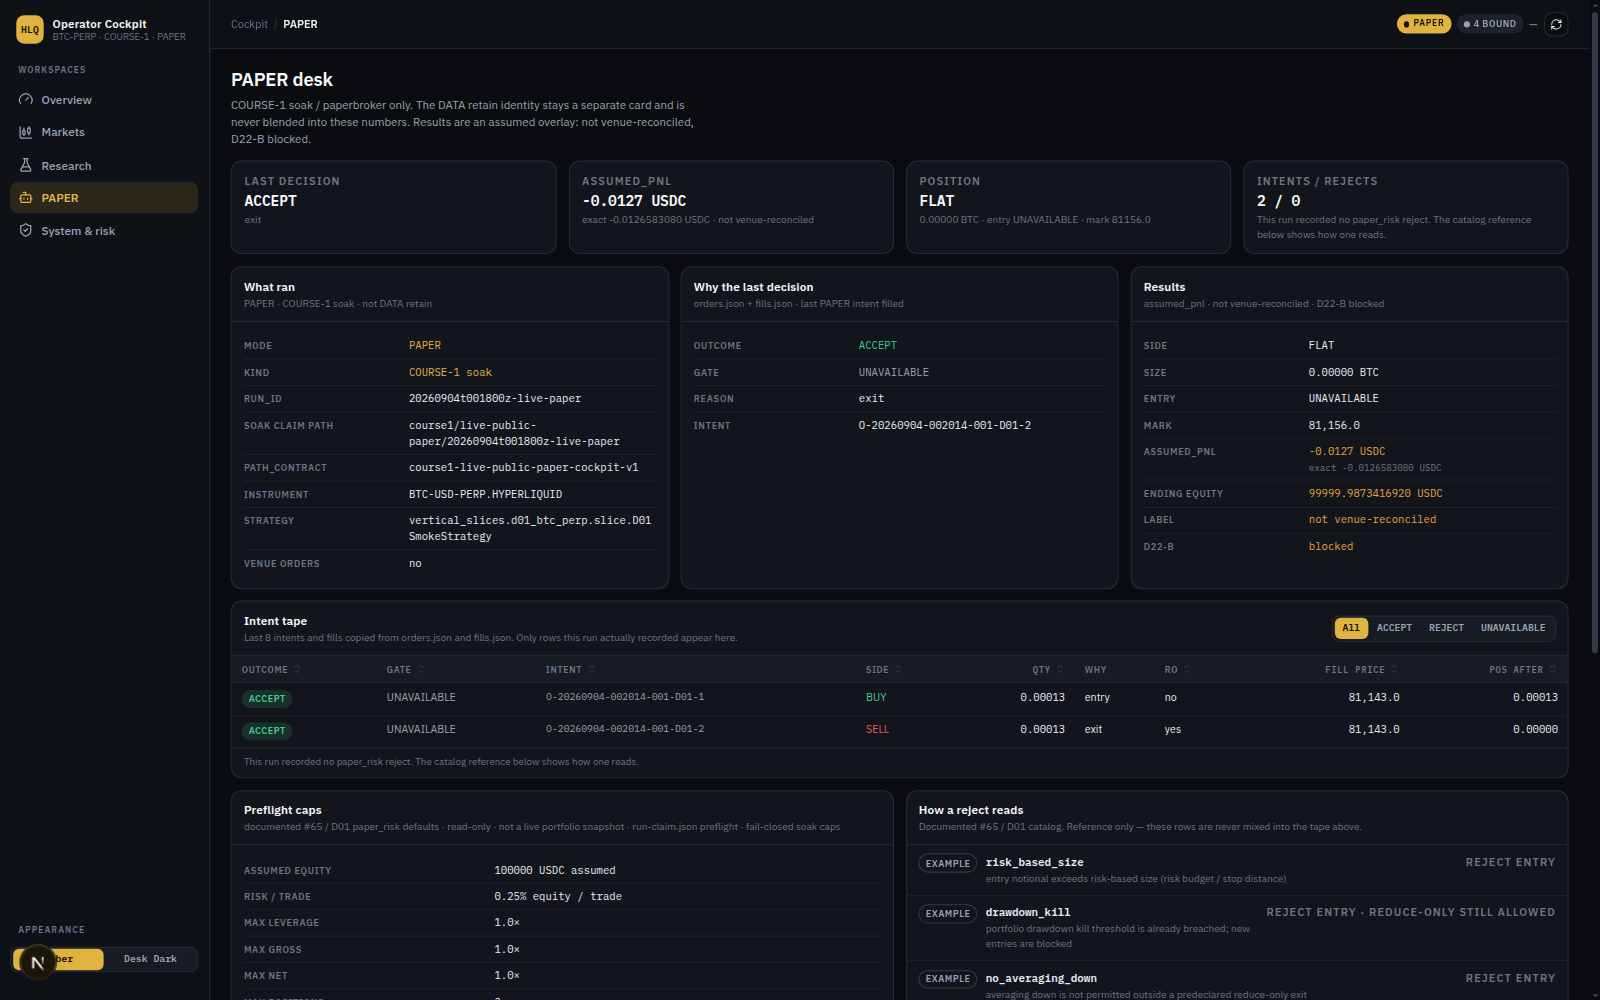
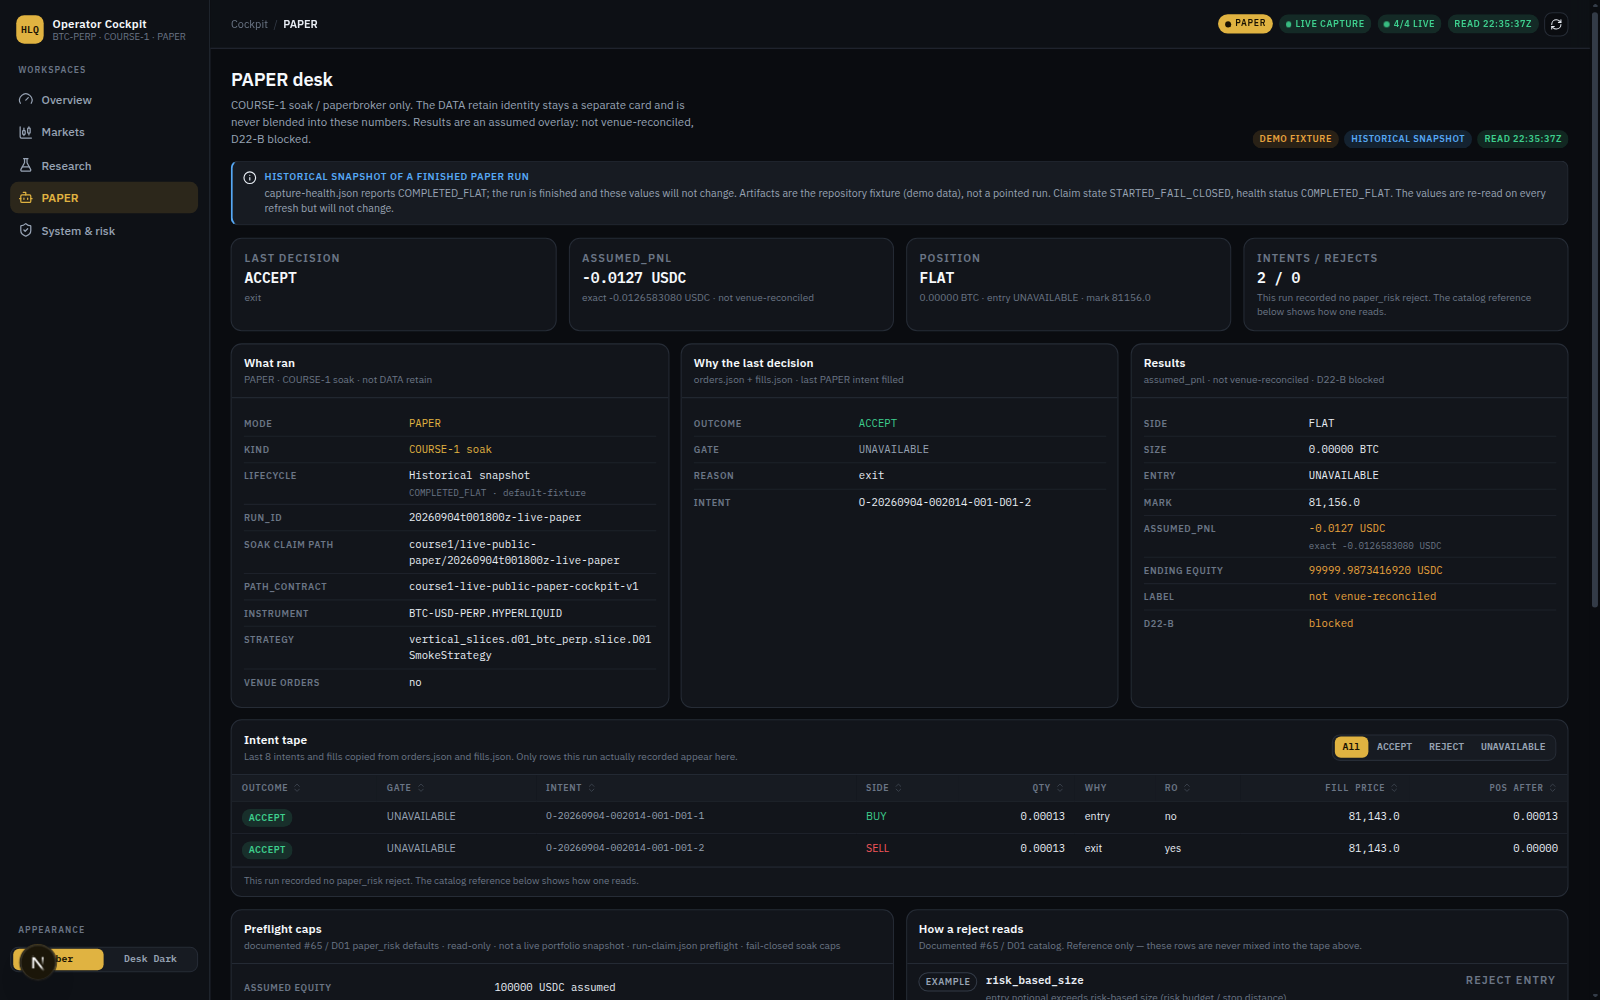
docs(cockpit): PR #67 previews against a simulated live retain, incl. failure and mismatch shots

diff --git a/docs/design-previews/pr-67/README.md b/docs/design-previews/pr-67/README.md
@@ -4,22 +4,39 @@ PAPER cockpit screenshots for review. Not product claims. Not LIVE. Collectors
 were not started or stopped for these shots.
 
 Captured at 1600×1000 (desktop) and 390×844 (iPhone) against
-`TRADING_MODE=PAPER` with the in-repo fixtures.
+`TRADING_MODE=PAPER`.
 
-The Research shots additionally point `COCKPIT_RESEARCH_OUT` at a scratch
-`research-out/` tree holding two `panel-summary.json` files — one for the
-bound `sample-run` (`not_enough_data`) and one for an unrelated run
-(`panel_ready`). That is what makes the verdict-colour and run-attribution
-fixes visible: the cockpit selects the summary belonging to the bound run and
-refuses to render its failed gate as a positive result.
+## What the shots are bound to
+
+The review VM has no access to the TerraPC/WSL captures, so the desktop and
+mobile shots point `ARTIFACT_ROOT` at a **simulated live retain** produced by
+`tests/fixtures/market_tape/generate_fixtures.py --out /tmp/sim-retain
+--base-utc now` (same DuckDB/ZSTD writer contract as the collectors, fresh
+mtimes, no `capture-health.json`). That is why every venue reads `LIVE CAPTURE`
+/ `RUNNING` and `bound via auto-detect`: the cockpit found the run directories
+itself; no run id was configured. It is **not** a live validation against the
+real collectors — see the PR description.
+
+The PAPER desk still reads the committed `default-fixture` soak, so it is
+labelled `DEMO FIXTURE` + `HISTORICAL SNAPSHOT` on purpose.
+
+`COCKPIT_RESEARCH_OUT` holds two `panel-summary.json` files that name the
+simulated runs per venue: one `not_enough_data` summary for the exact bound
+(HL, Binance) run pair, and one `panel_ready` summary for the same HL run but
+an older Binance run. The cockpit picks the first and marks the second
+`MISMATCHED`.
 
 | File | Screen |
 |---|---|
-| `desktop_overview.png` | Overview: stat tiles, attention list, market context, PAPER digest |
-| `desktop_markets.png` | Markets: interval control, candles, bound instrument table |
-| `desktop_research.png` | Research: attributed WP-Q1 summary, registry, capture health |
-| `desktop_paper.png` | PAPER: What / Why / Results, intent tape, separated gate catalog |
-| `desktop_system.png` | System & risk: run binding, capture states, gate catalog |
+| `desktop_overview.png` | Overview: capture, attention, research verdict, PAPER digest, bound runs, stored data strip |
+| `desktop_overview_research_failed.png` | Overview while `/api/research-p0` returns 500 (browser-simulated): banner, `ERROR` attention item, previous values kept with their last successful read time |
+| `desktop_markets.png` | Markets: public mid/candles (labelled public, not research truth), bound instrument table |
+| `desktop_markets_stored.png` | Markets: stored market data per venue — run, parts, bytes, newest part, last data, publication lag, per-instrument last trade / bid-ask / spread, spot vs perp vs quote kept apart |
+| `desktop_research.png` | Research: summary attributed per venue run → `MATCHED`, verdict `not_enough_data` shown neutral, never green |
+| `desktop_research_mismatched.png` | Research when only the summary with the stale Binance run exists → `MISMATCHED`, `panel_ready` shown amber with the reason |
+| `desktop_paper.png` | PAPER: `DEMO FIXTURE` + `HISTORICAL SNAPSHOT`, intent tape without invented rejects, gate catalog separate |
+| `desktop_system.png` | System & risk: run binding, published data per venue, DATA-1A facts |
 | `mobile_overview.png` | Overview on iPhone |
+| `mobile_markets_stored.png` | Stored market data on iPhone (table scrolls inside the card) |
 | `mobile_paper.png` | PAPER on iPhone |
 | `mobile_navigation.png` | Mobile navigation drawer |
